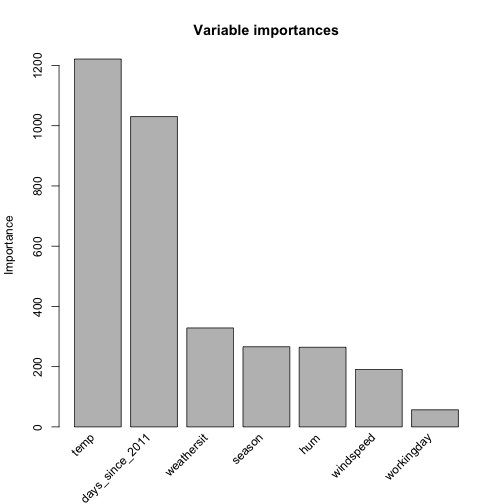
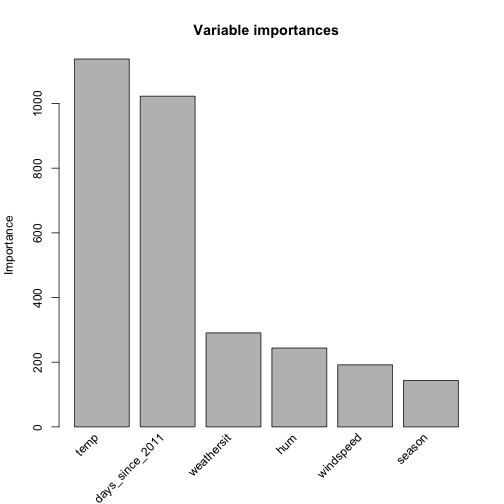
leanpub-tests

diff --git a/manuscript/04.5-interpretable-rulefit.md b/manuscript/04.5-interpretable-rulefit.md
@@ -1,8 +1,219 @@
 
 
-Another way to see the first step is, that it generates a new set of features {$$}X{/$$} out of your original features {$$}X{/$$}.
+## RuleFit {#rulefit}
+The RuleFit algorithm [@friedman2008predictive] fits sparse linear models which include automatically detected interaction effects in the form of binary decision rules.
+
+The standard linear model doesn't account for interactions between the features.
+Wouldn't it be convenient to have a model that is as simple and interpretable as linear models, but that also integrates feature interactions?
+RuleFit fills this gap.
+RuleFit fits a sparse linear model with the original features and also a set of new features which are decision rules.
+These new features capture interactions between the original features.
+RuleFit generates these features automatically from decision trees.
+Each path through a tree can be turned into a decision rule by combining the split decisions to a rule, as in Figure \@ref(fig:rulefit-split).
+The node predictions are thrown away and only the splits are used in the decision rules.
+![4 rules can be generated from a tree with 3 terminal nodes.](images/rulefit.jpg)
+Where do the decision trees come from?
+These are trees that are trained to predict the outcome of interest, so that the splits are meaningful for the task at hand and not arbitrary.
+Any algorithm that creates a lot of trees can be used for RuleFit, like a Random Forest for example.
+Each tree is disassembled into decision rules, which are used as additional features in a linear Lasso model.
+
+The RuleFit paper uses the Boston housing data for illustration:
+The goal is to predict the median house value in the Boston neighbourhood.
+One of the rules (read: features) generated by RuleFit:
+"if  (number of rooms {$$}>6.64{/$$})  and  (concentration of nitric oxide {$$}<0.67{/$$}) then {$$}1{/$$} else {$$}0{/$$}"
+
+RuleFit also comes with a feature importance measurement, which helps to identify linear terms and rules that are important for the prediction.
+The feature importance is calculated from the weights of the regression model.
+The importance measure can be aggregated for the original features (which appear once untransformed and possibly in many decision rules).
+
+RuleFit also introduces partial dependence plots to plot the average change of the prediction by changing one feature.
+The partial dependence plot is a model-agnostic method, which can be used with any model, and it has its own part in the book, see Chapter \@ref(pdp).
+
+### Interpretation and Example
+
+Since RuleFit estimates a linear model in the end, the interpretation is equivalent to linear models described in Chapter \@ref(limo).
+The only difference is that the model has new features that are coming from decision rules.
+Decision rules are binary features:
+A value of 1 means that all conditions of the rule are met, otherwise the value is 0.
+For linear terms in RuleFit, the interpretation is the same as in linear regression models:
+If {$$}x_j{/$$} increases by one unit, the predicted outcome changes by {$$}\beta_j{/$$}.
+
+
+
+In this example, we use RuleFit to predict the number of bike rentals on a given day (see Chapter \@ref(bike-data)).
+The rules generated for the bike rental prediction task can be seen in Figure \@ref(fig:rulefit-example).
+The most important rule was: "days_since_2011 > 429 & temp > 5.081651" and the associated weight is 578.5.
+The interpretation is:
+If days_since_2011 > 429 & temp > 5.081651, then the predicted number of bike rentals increases by 578.5, given all other features values stay fixed.
+In total,  336 such rules were created from the original 8 features.
+Quite a lot!
+But thanks to Lasso, only 40 of the 336 got a weight different from zero.
+
+
+|Description                                                | Weight| Importance| Std. Dev|
+|:----------------------------------------------------------|------:|----------:|--------:|
+|days_since_2011 > 429 & temp > 5.081651                    |  578.5|      282.8|     0.49|
+|days_since_2011 > 440 & temp > 11.544151                   |  497.0|      228.4|     0.46|
+|temp <= 13.776651 & days_since_2011 <= 367                 | -462.9|      198.1|     0.43|
+|temp <= 9.86 & temp <= 3.945849                            | -374.8|      108.9|     0.29|
+|days_since_2011 > 111 & weathersit %in% c("GOOD", "MISTY") |  369.7|      141.0|     0.38|
+|days_since_2011 > 108 & weathersit %in% c("GOOD", "MISTY") |  354.4|      133.9|     0.38|
+|temp <= 9.86 & days_since_2011 > 301                       | -336.2|      136.2|     0.41|
+|temp <= 12.758349 & season %in% c("SPRING")                | -312.7|      131.1|     0.42|
+|days_since_2011 > 111 & weathersit %in% c("GOOD")          |  303.8|      151.3|     0.50|
+|days_since_2011 > 430 & temp > 15.421651                   |  297.0|      129.7|     0.44|
+|temp <= 6.2175 & season %in% c("SPRING", "SUMMER")         | -211.9|       76.1|     0.36|
+|days_since_2011 > 105 & weathersit %in% c("GOOD", "MISTY") |  205.8|       77.0|     0.37|
+|temp <= 7.98 & season %in% c("SPRING", "SUMMER")           | -204.0|       79.9|     0.39|
+|temp > 13.776651 & days_since_2011 > 514                   |  201.8|       80.9|     0.40|
+|temp <= 12.719151 & days_since_2011 <= 387                 | -195.5|       84.9|     0.43|
+|temp > 6.958267 & days_since_2011 > 500                    |  194.2|       87.1|     0.45|
+|temp > 8.0975 & days_since_2011 > 436                      |  144.7|       69.0|     0.48|
+|days_since_2011 > 420 & weathersit %in% c("GOOD")          |  122.8|       54.9|     0.45|
+|days_since_2011 > 427 & temp > 8.136651                    |  109.4|       52.3|     0.48|
+|temp <= 11.583349                                          | -104.8|       51.1|     0.49|
+Computing the global feature importances reveals that temperature and the time trend are the most important features, see Figure \@ref(fig:rulefit-importance).
+The feature importance measurement includes the importance of the raw feature term and all the decision rules the feature appears in.
+
+![Feature importance measures for a RuleFit model predicting bike rentals. The most important features for the predictions were temperature and the time trend.](images/rulefit-importance-1.png)
+
+### Guidelines
+In this section we will talk about the advantages and disadvantages of RuleFit and how to interpret it.
+
+**Interpretation template**
+
+The interpretation is analogue to linear models:
+The predicted outcome changes by {$$}\beta_j{/$$} if feature {$$}x_j{/$$} changes by one unit, given all other features stay the same.
+The weight interpretation of a decision rule is a special case:
+If all conditions of a decision rule {$$}r_k{/$$} apply, the predicted outcome changes by {$$}\alpha_k{/$$} (the learned weight for rule {$$}r_k{/$$} in the linear model).
+And, respectively, for classification: If all conditions of decision rule {$$}r_k{/$$} apply, the odds for event vs. no-event changes by a factor of {$$}\alpha_k{/$$}.
+
+
+**The Good**:
+
+- RuleFit adds **feature interactions** automatically to linear models.
+Therefore it solves the problem of linear models that you have to add interaction terms manually and it helps a bit with the issue of modeling non-linear relationships.
+- RuleFit can handle both classification and regression tasks.
+- The created rules are easy to interpret, because they are binary decision rules.
+Either the rule applies to an instance or not.
+Good interpretability is only guaranteed as long as the number of conditions within a rule is not to big.
+A rule with 1 to 3 conditions seems reasonable to me.
+This translates into a maximum depth of 3 for the trees in the tree ensemble.
+- Even if there are many rules in the model, they do not apply to each instance, so for one instance only a handful of rules are important (non-zero weights).
+This improves local interpretability.
+- RuleFit comes with a bunch of tools, namely an importance measurement, interaction effects calculation and partial dependence plots.
+
+
+**The Bad**:
+
+- Sometimes RuleFit creates many rules which get a non-zero weight in the Lasso model.
+The interpretability degrades with higher number of features in the model.
+A promising solution is to force feature effects to be monotonic, meaning that an increase in a feature has to result in an increase of the predicted outcome.
+- An anecdotal drawback: The papers claim good performance of RuleFit - often close to the predictive performance of Random Forests! - yet in the few cases where I personally tried it, the performance was disappointing.
+- The end product of the RuleFit procedure is a linear model with additional fancy features (the decision rules).
+But since it is a linear model, the weight interpretation is still unintuitive (given all features are fixed, increasing feature {$$}x_j{/$$} by one unit, increases the predicted outcome by {$$}\beta_j{/$$}).
+It gets a bit more tricky if you have overlapping rules: For example one decision rule (feature) for the bike prediction could be: "temp > 15" and another rule could be "temp > 10 & weather='GOOD'".
+When the weather is good and the temperature is above 10 degrees, the temperature is automatically also always bigger then 15, which means in the cases where the second rule applies, the first one also always applies.
+The interpretation of the estimated weight for the second rule is: 'Given all other features are fixed, the predicted number of bikes increases by {$$}\beta_2{/$$}'.
+BUT, now it becomes really clear that the 'all other feature fixed' is problematic, because if rule 2 applies, also rule 1 applies and the interpretation is nonsensical.
+
+
+The RuleFit algorithm is implemented in R by @pre2017 and you can find a [Python version on Github](https://github.com/christophM/rulefit).
+
+
+
+### Theory
+Let's dive deeper into the technicalities of the RuleFit algorithm.
+RuleFit consists of two components:
+The first component produces "rules" from decision trees and the second component fits a linear model with the original features and the new rules as input (hence the name "RuleFit").
+It enables automatic integration of interactions between features into a linear model, while having the interpretability of a sparse linear model.
+
+
+**Step 1: Rule generation**
+
+How does a rule look like? The rules that the algorithm generates have a simple form:
+For example: "if {$$}x2<3{/$$} and {$$}x5<7{/$$} then {$$}1{/$$} else {$$}0{/$$}".
+The rules are constructed by disassembling decision trees:
+Each path to a node in a tree can be turned into a decision rule.
+The trees used for the rules are fitted to predict the target outcome.
+The splits and resulting rules are optimised to predict the outcome you are interested in.
+Figure \@ref(fig:rulefit-split) illustrates the rule generation.
+You simply chain the binary decisions that lead to a certain node with a logical "AND", and voilà, you have a rule.
+It is desirable to generate a lot of diverse and meaningful rules.
+Gradient boosting is used to fit an ensemble of decision trees (by regressing or classifying {$$}y{/$$} with your original features {$$}X{/$$}).
+Each resulting tree is turned into multiple rules.
+Not only boosted trees, but any type of ensemble of trees can be used to generate the trees for RuleFit:
+{$$}f(x)=a_0+\sum_{m=1}^M{}a_m{}f_m(X){/$$}
+where {$$}M{/$$} is the number of trees and {$$}f_m(x){/$$} represents the prediction function of the {$$}m{/$$}-th tree.
+Bagged ensembles, Random forests, AdaBoost and MART yield ensemble of trees and can be used for RuleFit.
+
+From all of the trees of the ensemble, we produce the rules.
+See again Figure \@ref(fig:rulefit-split).
+Each rule {$$}r_m{/$$} takes on the form:
+{$$}r_m(x)=\prod_{j\in\text{T}_m}I(x_j\in{}s_{jm}){/$$}
+where {$$}\text{T}_{m}{/$$} is the set of features used in {$$}m{/$$}-th tree, {$$}I(\cdot){/$$} is the indicator function, which is 1 if the feature {$$}x_j{/$$} is in the specified subset of values {$$}s_{jm}{/$$} for {$$}x_j{/$$} (as specified by the tree splits) and otherwise 0.
+For numerical features, {$$}s_{jm}{/$$} is one to multiple intervals in the value range of the feature {$$}x_j{/$$}, depending on the number of splits in that feature.
+In case of a single split, the {$$}s_{jm}{/$$} looks like one of the two cases:
+{$$}x_{s_{jm},\text{lower}}<x_j{/$$} or {$$}x_j<x_{s_{jm},upper}{/$$}.
+Further splits in that feature create more complicated intervals.
+For categorical features the subset {$$}s_{jm}{/$$} contains some specific categories of {$$}x_j{/$$}.
+
+A made up example for the bike rental data set:
+{$$}r_{17}(x)=I(x_{\text{temp}}<15)\cdot{}I(x_{\text{weather}}\in\{\text{good},\text{cloudy}\})\cdot{}I(10\leq{}x_{\text{windspeed}}<20){/$$}
+This rule will only be equal to 1 if all of the three conditions are met, otherwise 0.
+RuleFit extracts all possible rules from a tree, not only from the leaf nodes.
+So another rule that would be created is:
+{$$}r_{18}(x)=I(x_{\text{temp}}<15)\cdot{}I(x_{\text{weather}}\in\{\text{good},\text{cloudy}\}{/$$}
+In total, {$$}K=\sum_{m=1}^M2(t_m-1){/$$} rules are created from the ensemble of {$$}M{/$$} trees, with {$$}t_m{/$$} terminal nodes each.
+A trick that is introduced by the RuleFit authors is to fit trees with random depth, so that a lot of diverse rules are generated with different lengths.
+Note that we throw away the predicted value in each node and only keep the conditions that lead us to the node and create a rule from it.
+The weighting of the decision rules will happen in step 2 of fitting RuleFit.
+
+
+Another way to see the first step is, that it generates a new set of features out of your original features {$$}X{/$$}.
 Those features are binary and can represent quite complex interactions of your original {$$}X{/$$}.
 The rules are chosen to maximise the prediction task at hand.
 The rules are automatically generated from the covariates matrix X.
 You can see the rules simply as new features based on your original features.
 
+**Step 2: Sparse linear model**
+
+You will get A LOT of rules from the first step.
+Since the first step is only a feature transformation function on your original data set you are still not done with fitting a model and also you want to reduce the number of rules.
+Next to the rules, also all your 'raw' features from your original dataset will be used in the Lasso linear model.
+Every rule and original feature becomes a feature in Lasso and gets a weight estimate.
+The original, raw features are added because trees suck at representing simple linear relationships between y and x.
+Before we put everything into Lasso to get a sparse linear model, we winsorise the original features, so that they are more robust against outliers:
+{$$}l_j^*(x_j)=min(\delta_j^+,max(\delta_j^-,x_j)){/$$}
+where {$$}\delta_j^-{/$$} and {$$}\delta_j^+{/$$} are the {$$}\delta{/$$} quantiles of the data distribution of {$$}x_j{/$$}.
+A choice of {$$}0.05{/$$} for {$$}\delta{/$$} means that every value of {$$}x_j{/$$} that is in the 5% lowest or 5% highest values will be set to the values at 5% or 95% respectively.
+As a rule of thumb, you can choose {$$}\delta=0.025{/$$}.
+In addition, the linear terms have to be normalised so that they have the same prior influence as a typical decision rule:
+{$$}l_j(x_j)=0.4\cdot{}l^*_j(x_j)/std(l^*_j(x_j)){/$$}
+The {$$}0.4{/$$} is the average standard deviation of rules with a uniform support distribution $s_k \sim U(0,1)$.
+
+We combine both types of features to generate a new feature matrix and estimate a sparse linear model with Lasso, with the following structure:
+{$$}\hat{f}(x)=\hat{\beta}_0+\sum_{k=1}^K\hat{\alpha}_k{}r_k(x)+\sum_{j=1}^p\hat{\beta}_j{}l_j(x_j){/$$}
+where {$$}\hat{\alpha}{/$$} are the estimated weights for the rule features and {$$}\hat{\beta}{/$$} for the original features. Since RuleFit uses Lasso, the loss function gets the additional constraint that forces some of the weights to get a zero estimate:
+{$$}(\{\hat{\alpha}\}_1^K,\{\hat{\beta}\}_0^p)=argmin_{\{\hat{\alpha}\}_1^K,\{\hat{\beta}\}_0^p}\sum_{i=1}^n{}L(y_i,f(x))+\lambda\cdot(\sum_{k=1}^K|\alpha_k|+\sum_{j=1}^p|b_j|){/$$}
+The outcome is a linear model that has linear effects for all of the original features and for the rules.
+The interpretation is the same as with linear models, the only difference is that some features are now binary rules.
+
+
+**Step 3 (optional): Feature importance**
+For the linear terms of the original features, the feature importance is measured with the standardised predictor:
+{$$}I_j=|\hat{\beta}_j|\cdot{}std(l_j(x_j)){/$$}
+where {$$}\beta_j{/$$} is the weight from the Lasso model and {$$}std(l_j(x_j)){/$$} the standard deviation of the linear term over the data.
+
+For the decision rule terms, the importance is calculated with:
+{$$}I_k=|\hat{\alpha}_k|\cdot\sqrt{s_k(1-s_k)}{/$$}
+where {$$}\hat{\alpha}_k{/$$} is the associated Lasso weight of the decision rule and {$$}s_k{/$$} is the support of the feature in the data, which is the percentage of data points for which the decision rule applies (where {$$}r_k(x)=0{/$$}): {$$}s_k=\frac{1}{n}\sum_{i=1}^n{}r_k(x_i){/$$}
+
+A feature {$$}x_j{/$$} occurs as a linear term and possibly also within many decision rules.
+How do we measure the total importance of the feature {$$}x_j{/$$}?
+The importance {$$}J_j(x){/$$} of feature {$$}x_j{/$$} can be measured at each individual prediction:
+{$$}J_j(x)=I_l(x)+\sum_{x_j\in{}r_k}I_k(x)/m_k{/$$}
+where {$$}I_l{/$$} is the importance of the linear term and {$$}I_k{/$$} the importance of the decision rules in which {$$}x_j{/$$} appears, and {$$}m_k{/$$} is the number of features that constitute rule {$$}r_k{/$$}.
+Summing the feature importance over all instances gives us the global feature importance:
+{$$}J_j(X)=\sum_{i=1}^n{}J_j(x_i){/$$}
+It is possible to choose a subset of instances and calculate the feature importance for this group.
